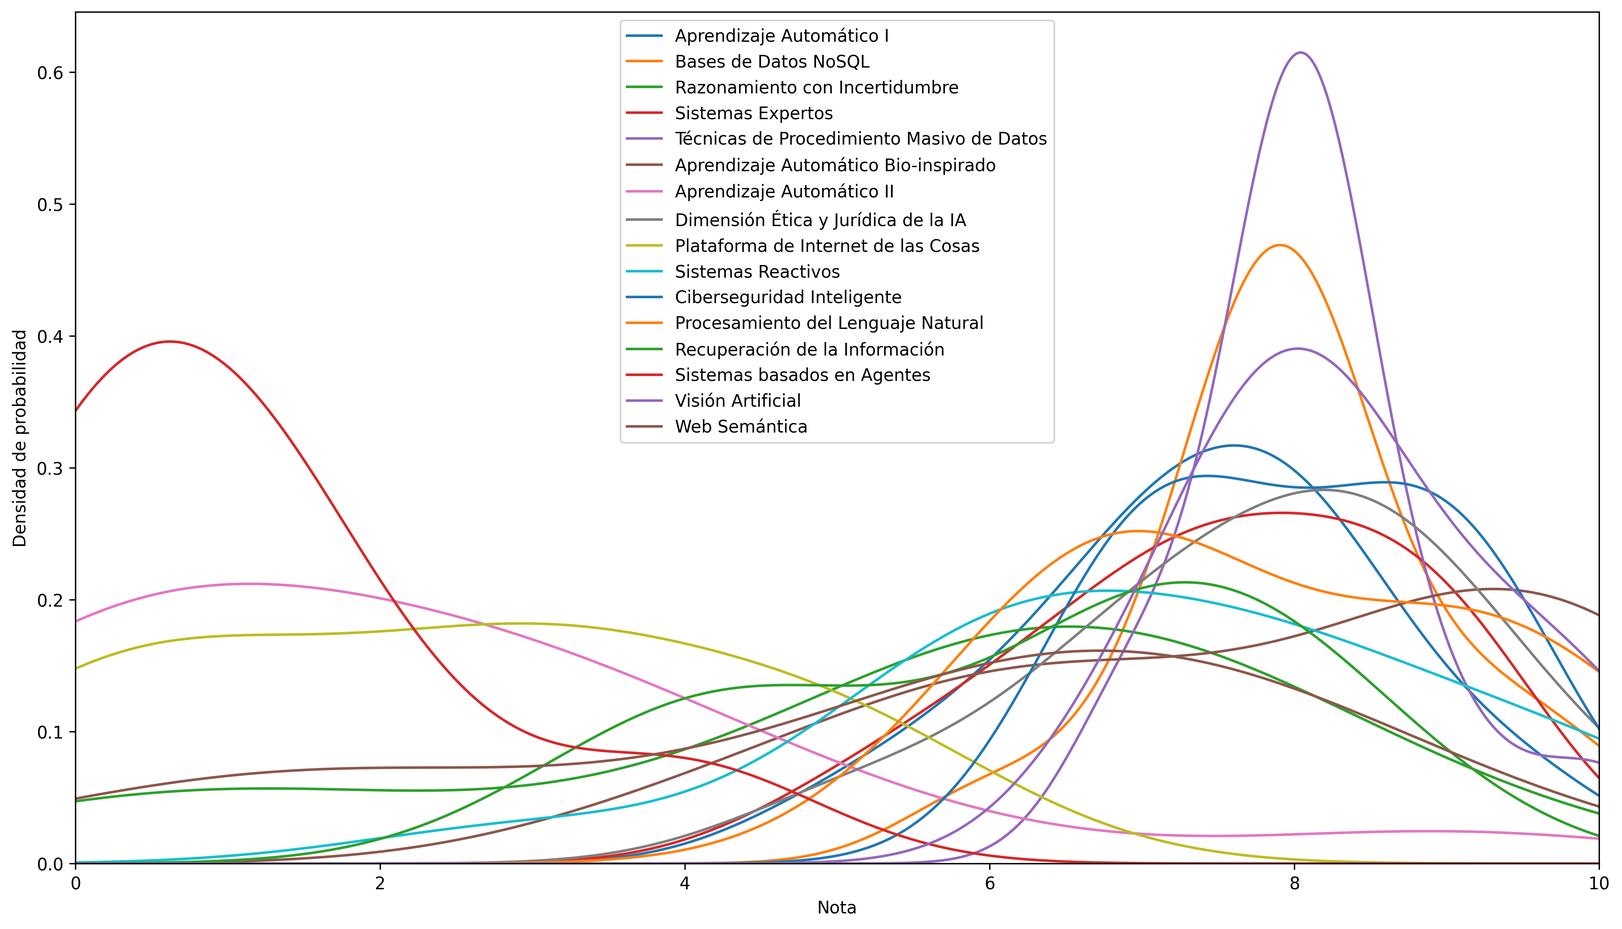
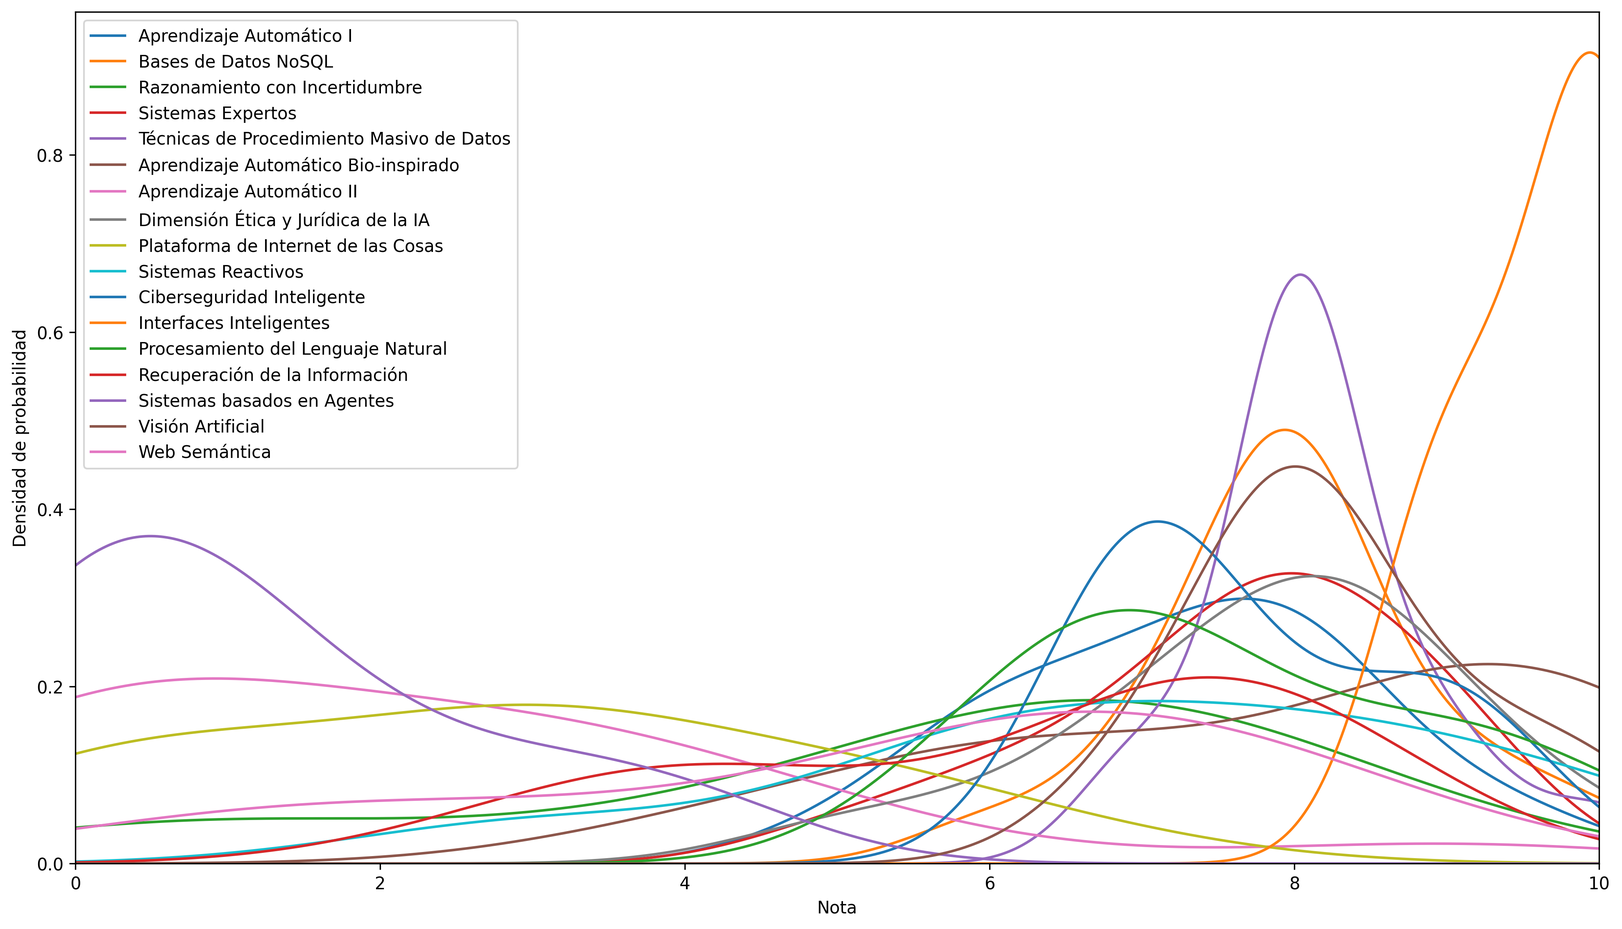
Executed main.py [GitHub Action]

diff --git a/README.md b/README.md
@@ -1,4 +1,4 @@
-# Asignaturas optativas del Grado en Inteligencia Artificial
+# Asignaturas optativas del Grado en Inteligencia Artificial 
 
 Este es un repositorio que calcula distintos métodos de votación y métricas para comparar las distintas asignaturas optativas del Grado en Inteligencia Artificial de la [Universidad de Vigo](https://www.uvigo.gal/). Los datos han sido obtenidos con este [cuestionario](https://docs.google.com/forms/d/e/1FAIpQLSeHNeIP01vFKP7Y-J_DAL-7Cn0_YEE-8jA3jm2dRxvhtSVvgA/viewform?usp=dialog) que envía su información a esta [hoja de cálculo](https://docs.google.com/spreadsheets/d/1WvO5IBgJ3F6b6zHFQD5eWSxN-IUe3ONEvazHEUGb3Qo).
 
@@ -6,25 +6,25 @@ Este es un repositorio que calcula distintos métodos de votación y métricas p
 
 Estas son distintas métricas para todas las asignaturas, ordenadas por su media.
 
-| <img width="1000"><br><p align="center">Asignatura | <img width="1000"><br><p align="center">Media | <img width="1000"><br><p align="center">Desviación típica | <img width="1000"><br><p align="center">Mediana | <img width="1000"><br><p align="center">Moda | <img width="1000"><br><p align="center">Máximo | <img width="1000"><br><p align="center">Mínimo | <img width="1000"><br><p align="center">Número de alumnos |
-| :------------------------------------------------- | :-------------------------------------------: | :-------------------------------------------------------: | :---------------------------------------------: | :------------------------------------------: | :--------------------------------------------: | :--------------------------------------------: | --------------------------------------------------------: |
-| Interfaces Inteligentes                            |                     9.67                      |                           0.58                            |                       10                        |                      10                      |                       10                       |                       9                        |                                                         3 |
-| Visión Artificial                                  |                     8.27                      |                           0.92                            |                        8                        |                      8                       |                      9.9                       |                       7                        |                                                         7 |
-| Técnicas de Procedimiento Masivo de Datos          |                     8.16                      |                           0.72                            |                        8                        |                      8                       |                       10                       |                       7                        |                                                        16 |
-| Bases de Datos NoSQL                               |                     7.99                      |                           0.92                            |                        8                        |                      8                       |                       10                       |                       6                        |                                                        17 |
-| Aprendizaje Automático Bio-inspirado               |                     7.91                      |                             2                             |                        9                        |                      9                       |                       10                       |                       4                        |                                                        15 |
-| Dimensión Ética y Jurídica de la IA                |                     7.81                      |                           1.26                            |                        8                        |                      8                       |                       10                       |                       5                        |                                                        15 |
-| Ciberseguridad Inteligente                         |                     7.73                      |                           0.97                            |                        7                        |                      7                       |                      9.1                       |                       7                        |                                                         7 |
-| Sistemas Expertos                                  |                     7.61                      |                           1.16                            |                        8                        |                      8                       |                       9                        |                       5                        |                                                        17 |
-| Procesamiento del Lenguaje Natural                 |                      7.6                      |                           1.35                            |                        7                        |                      7                       |                       10                       |                       6                        |                                                        10 |
-| Aprendizaje Automático I                           |                      7.3                      |                           1.19                            |                      7.25                       |                      8                       |                      9.6                       |                       5                        |                                                        18 |
-| Sistemas Reactivos                                 |                     6.99                      |                           2.12                            |                      7.15                       |                      6                       |                       10                       |                       3                        |                                                        16 |
-| Recuperación de la Información                     |                     6.23                      |                           1.86                            |                        7                        |                      7                       |                       8                        |                       3                        |                                                        11 |
-| Razonamiento con Incertidumbre                     |                     5.54                      |                           2.53                            |                       6.1                       |                      7                       |                       9                        |                       0                        |                                                        18 |
-| Web Semántica                                      |                     5.33                      |                           2.45                            |                        6                        |                      7                       |                       8                        |                       1                        |                                                         9 |
-| Plataforma de Internet de las Cosas                |                     2.73                      |                           2.06                            |                        3                        |                      3                       |                      6.5                       |                       0                        |                                                        15 |
-| Aprendizaje Automático II                          |                     2.19                      |                           2.42                            |                        2                        |                      0                       |                       9                        |                       0                        |                                                        17 |
-| Sistemas basados en Agentes                        |                      1.2                      |                            1.4                            |                        1                        |                      0                       |                       4                        |                       0                        |                                                        10 |
+| <img width="1000"><br><p align="center">Asignatura  | <img width="1000"><br><p align="center">Media  | <img width="1000"><br><p align="center">Desviación típica  | <img width="1000"><br><p align="center">Mediana  | <img width="1000"><br><p align="center">Moda  | <img width="1000"><br><p align="center">Máximo  | <img width="1000"><br><p align="center">Mínimo  | <img width="1000"><br><p align="center">Número de alumnos |
+|:--|:--:|:--:|:--:|:--:|:--:|:--:|--:|
+| Interfaces Inteligentes  | 9.67  | 0.58  | 10  | 10  | 10  | 9  | 3 |
+| Visión Artificial  | 8.27  | 0.92  | 8  | 8  | 9.9  | 7  | 7 |
+| Técnicas de Procedimiento Masivo de Datos  | 8.16  | 0.72  | 8  | 8  | 10  | 7  | 16 |
+| Bases de Datos NoSQL  | 7.99  | 0.92  | 8  | 8  | 10  | 6  | 17 |
+| Aprendizaje Automático Bio-inspirado  | 7.91  | 2  | 9  | 9  | 10  | 4  | 15 |
+| Dimensión Ética y Jurídica de la IA  | 7.81  | 1.26  | 8  | 8  | 10  | 5  | 15 |
+| Ciberseguridad Inteligente  | 7.73  | 0.97  | 7  | 7  | 9.1  | 7  | 7 |
+| Sistemas Expertos  | 7.61  | 1.16  | 8  | 8  | 9  | 5  | 17 |
+| Procesamiento del Lenguaje Natural  | 7.6  | 1.35  | 7  | 7  | 10  | 6  | 10 |
+| Aprendizaje Automático I  | 7.3  | 1.19  | 7.25  | 8  | 9.6  | 5  | 18 |
+| Sistemas Reactivos  | 6.99  | 2.12  | 7.15  | 6  | 10  | 3  | 16 |
+| Recuperación de la Información  | 6.23  | 1.86  | 7  | 7  | 8  | 3  | 11 |
+| Razonamiento con Incertidumbre  | 5.54  | 2.53  | 6.1  | 7  | 9  | 0  | 18 |
+| Web Semántica  | 5.33  | 2.45  | 6  | 7  | 8  | 1  | 9 |
+| Plataforma de Internet de las Cosas  | 2.73  | 2.06  | 3  | 3  | 6.5  | 0  | 15 |
+| Aprendizaje Automático II  | 2.19  | 2.42  | 2  | 0  | 9  | 0  | 17 |
+| Sistemas basados en Agentes  | 1.2  | 1.4  | 1  | 0  | 4  | 0  | 10 |
 
 ## Distribuciones de probabilidad
 
@@ -43,27 +43,25 @@ Estas son las distribuciones normales usando la media y desviación típica de c
 Para el método Schulze se necesita un ranking de cada votante para todas las opciones. Como en este caso tenemos una nota numérica, se pone que un votante prefiere una asignatura sobre otra si le ha dado una nota mayor. Esto se divide por el número de alumnos que han votado a las dos asignaturas para normalizar.
 
 | <img width="1000"><br><p align="center">Asignatura |
-| :------------------------------------------------: |
-|              Interfaces Inteligentes               |
-|        Aprendizaje Automático Bio-inspirado        |
-|     Técnicas de Procedimiento Masivo de Datos      |
-|                Bases de Datos NoSQL                |
-|                 Visión Artificial                  |
-|        Dimensión Ética y Jurídica de la IA         |
-|                 Sistemas Expertos                  |
-|             Ciberseguridad Inteligente             |
-|         Procesamiento del Lenguaje Natural         |
-|              Aprendizaje Automático I              |
-|                 Sistemas Reactivos                 |
-|           Recuperación de la Información           |
-|           Razonamiento con Incertidumbre           |
-|                   Web Semántica                    |
-|        Plataforma de Internet de las Cosas         |
-|             Aprendizaje Automático II              |
-|            Sistemas basados en Agentes             |
+|:--:|
+| Interfaces Inteligentes |
+| Aprendizaje Automático Bio-inspirado |
+| Técnicas de Procedimiento Masivo de Datos |
+| Bases de Datos NoSQL |
+| Visión Artificial |
+| Dimensión Ética y Jurídica de la IA |
+| Sistemas Expertos |
+| Ciberseguridad Inteligente |
+| Procesamiento del Lenguaje Natural |
+| Aprendizaje Automático I |
+| Sistemas Reactivos |
+| Recuperación de la Información |
+| Razonamiento con Incertidumbre |
+| Web Semántica |
+| Plataforma de Internet de las Cosas |
+| Aprendizaje Automático II |
+| Sistemas basados en Agentes |
 
 ## Informes por año
-
-- ### [2026](./docs/README2026.md)
 
 - ### [2025](./docs/README2025.md)

diff --git a/docs/README2025.md b/docs/README2025.md
@@ -6,25 +6,25 @@ Este es un repositorio que calcula distintos métodos de votación y métricas p
 
 Estas son distintas métricas para todas las asignaturas, ordenadas por su media.
 
-| <img width="1000"><br><p align="center">Asignatura | <img width="1000"><br><p align="center">Media | <img width="1000"><br><p align="center">Desviación típica | <img width="1000"><br><p align="center">Mediana | <img width="1000"><br><p align="center">Moda | <img width="1000"><br><p align="center">Máximo | <img width="1000"><br><p align="center">Mínimo | <img width="1000"><br><p align="center">Número de alumnos |
-| :------------------------------------------------- | :-------------------------------------------: | :-------------------------------------------------------: | :---------------------------------------------: | :------------------------------------------: | :--------------------------------------------: | :--------------------------------------------: | --------------------------------------------------------: |
-| Visión Artificial                                  |                     8.32                      |                             1                             |                        8                        |                      8                       |                      9.9                       |                       7                        |                                                         6 |
-| Técnicas de Procedimiento Masivo de Datos          |                     8.12                      |                           0.77                            |                        8                        |                      8                       |                       10                       |                       7                        |                                                        13 |
-| Ciberseguridad Inteligente                         |                     8.02                      |                           1.03                            |                        8                        |                      7                       |                      9.1                       |                       7                        |                                                         5 |
-| Bases de Datos NoSQL                               |                     8.02                      |                           0.97                            |                        8                        |                      8                       |                       10                       |                       6                        |                                                        14 |
-| Procesamiento del Lenguaje Natural                 |                     7.86                      |                           1.46                            |                        7                        |                      7                       |                       10                       |                       6                        |                                                         7 |
-| Aprendizaje Automático Bio-inspirado               |                     7.83                      |                           2.05                            |                       8.5                       |                      10                      |                       10                       |                       4                        |                                                        14 |
-| Dimensión Ética y Jurídica de la IA                |                     7.78                      |                           1.36                            |                        8                        |                      7                       |                       10                       |                       5                        |                                                        13 |
-| Sistemas Expertos                                  |                     7.53                      |                           1.27                            |                      7.75                       |                      7                       |                       9                        |                       5                        |                                                        14 |
-| Aprendizaje Automático I                           |                     7.42                      |                           1.19                            |                       7.5                       |                      7                       |                      9.6                       |                       5                        |                                                        15 |
-| Sistemas Reactivos                                 |                     7.13                      |                            1.9                            |                      7.15                       |                      6                       |                       10                       |                       3                        |                                                        14 |
-| Recuperación de la Información                     |                     6.25                      |                           1.67                            |                        7                        |                      7                       |                       8                        |                       4                        |                                                         8 |
-| Razonamiento con Incertidumbre                     |                     5.38                      |                           2.64                            |                        6                        |                      7                       |                       9                        |                       0                        |                                                        15 |
-| Web Semántica                                      |                     5.29                      |                           2.69                            |                        6                        |                      6                       |                       8                        |                       1                        |                                                         7 |
-| Plataforma de Internet de las Cosas                |                     2.42                      |                           1.91                            |                        3                        |                      0                       |                       5                        |                       0                        |                                                        13 |
-| Aprendizaje Automático II                          |                     2.22                      |                           2.47                            |                        2                        |                      0                       |                       9                        |                       0                        |                                                        15 |
-| Sistemas basados en Agentes                        |                     1.12                      |                           1.36                            |                        1                        |                      0                       |                       4                        |                       0                        |                                                         8 |
-| Interfaces Inteligentes                            |                      nan                      |                            nan                            |                       nan                       |                     nan                      |                      nan                       |                      nan                       |                                                         0 |
+| <img width="1000"><br><p align="center">Asignatura  | <img width="1000"><br><p align="center">Media  | <img width="1000"><br><p align="center">Desviación típica  | <img width="1000"><br><p align="center">Mediana  | <img width="1000"><br><p align="center">Moda  | <img width="1000"><br><p align="center">Máximo  | <img width="1000"><br><p align="center">Mínimo  | <img width="1000"><br><p align="center">Número de alumnos |
+|:--|:--:|:--:|:--:|:--:|:--:|:--:|--:|
+| Interfaces Inteligentes  | 9.67  | 0.58  | 10  | 10  | 10  | 9  | 3 |
+| Visión Artificial  | 8.27  | 0.92  | 8  | 8  | 9.9  | 7  | 7 |
+| Técnicas de Procedimiento Masivo de Datos  | 8.16  | 0.72  | 8  | 8  | 10  | 7  | 16 |
+| Bases de Datos NoSQL  | 7.99  | 0.92  | 8  | 8  | 10  | 6  | 17 |
+| Aprendizaje Automático Bio-inspirado  | 7.91  | 2  | 9  | 9  | 10  | 4  | 15 |
+| Dimensión Ética y Jurídica de la IA  | 7.81  | 1.26  | 8  | 8  | 10  | 5  | 15 |
+| Ciberseguridad Inteligente  | 7.73  | 0.97  | 7  | 7  | 9.1  | 7  | 7 |
+| Sistemas Expertos  | 7.61  | 1.16  | 8  | 8  | 9  | 5  | 17 |
+| Procesamiento del Lenguaje Natural  | 7.6  | 1.35  | 7  | 7  | 10  | 6  | 10 |
+| Aprendizaje Automático I  | 7.3  | 1.19  | 7.25  | 8  | 9.6  | 5  | 18 |
+| Sistemas Reactivos  | 6.99  | 2.12  | 7.15  | 6  | 10  | 3  | 16 |
+| Recuperación de la Información  | 6.23  | 1.86  | 7  | 7  | 8  | 3  | 11 |
+| Razonamiento con Incertidumbre  | 5.54  | 2.53  | 6.1  | 7  | 9  | 0  | 18 |
+| Web Semántica  | 5.33  | 2.45  | 6  | 7  | 8  | 1  | 9 |
+| Plataforma de Internet de las Cosas  | 2.73  | 2.06  | 3  | 3  | 6.5  | 0  | 15 |
+| Aprendizaje Automático II  | 2.19  | 2.42  | 2  | 0  | 9  | 0  | 17 |
+| Sistemas basados en Agentes  | 1.2  | 1.4  | 1  | 0  | 4  | 0  | 10 |
 
 ## Distribuciones de probabilidad
 
@@ -43,21 +43,21 @@ Estas son las distribuciones normales usando la media y desviación típica de c
 Para el método Schulze se necesita un ranking de cada votante para todas las opciones. Como en este caso tenemos una nota numérica, se pone que un votante prefiere una asignatura sobre otra si le ha dado una nota mayor. Esto se divide por el número de alumnos que han votado a las dos asignaturas para normalizar.
 
 | <img width="1000"><br><p align="center">Asignatura |
-| :------------------------------------------------: |
-|                Bases de Datos NoSQL                |
-|     Técnicas de Procedimiento Masivo de Datos      |
-|        Aprendizaje Automático Bio-inspirado        |
-|                 Visión Artificial                  |
-|             Ciberseguridad Inteligente             |
-|        Dimensión Ética y Jurídica de la IA         |
-|         Procesamiento del Lenguaje Natural         |
-|                 Sistemas Expertos                  |
-|              Aprendizaje Automático I              |
-|                 Sistemas Reactivos                 |
-|           Recuperación de la Información           |
-|           Razonamiento con Incertidumbre           |
-|                   Web Semántica                    |
-|        Plataforma de Internet de las Cosas         |
-|             Aprendizaje Automático II              |
-|            Sistemas basados en Agentes             |
-|              Interfaces Inteligentes               |
+|:--:|
+| Interfaces Inteligentes |
+| Aprendizaje Automático Bio-inspirado |
+| Técnicas de Procedimiento Masivo de Datos |
+| Bases de Datos NoSQL |
+| Visión Artificial |
+| Dimensión Ética y Jurídica de la IA |
+| Sistemas Expertos |
+| Ciberseguridad Inteligente |
+| Procesamiento del Lenguaje Natural |
+| Aprendizaje Automático I |
+| Sistemas Reactivos |
+| Recuperación de la Información |
+| Razonamiento con Incertidumbre |
+| Web Semántica |
+| Plataforma de Internet de las Cosas |
+| Aprendizaje Automático II |
+| Sistemas basados en Agentes |
